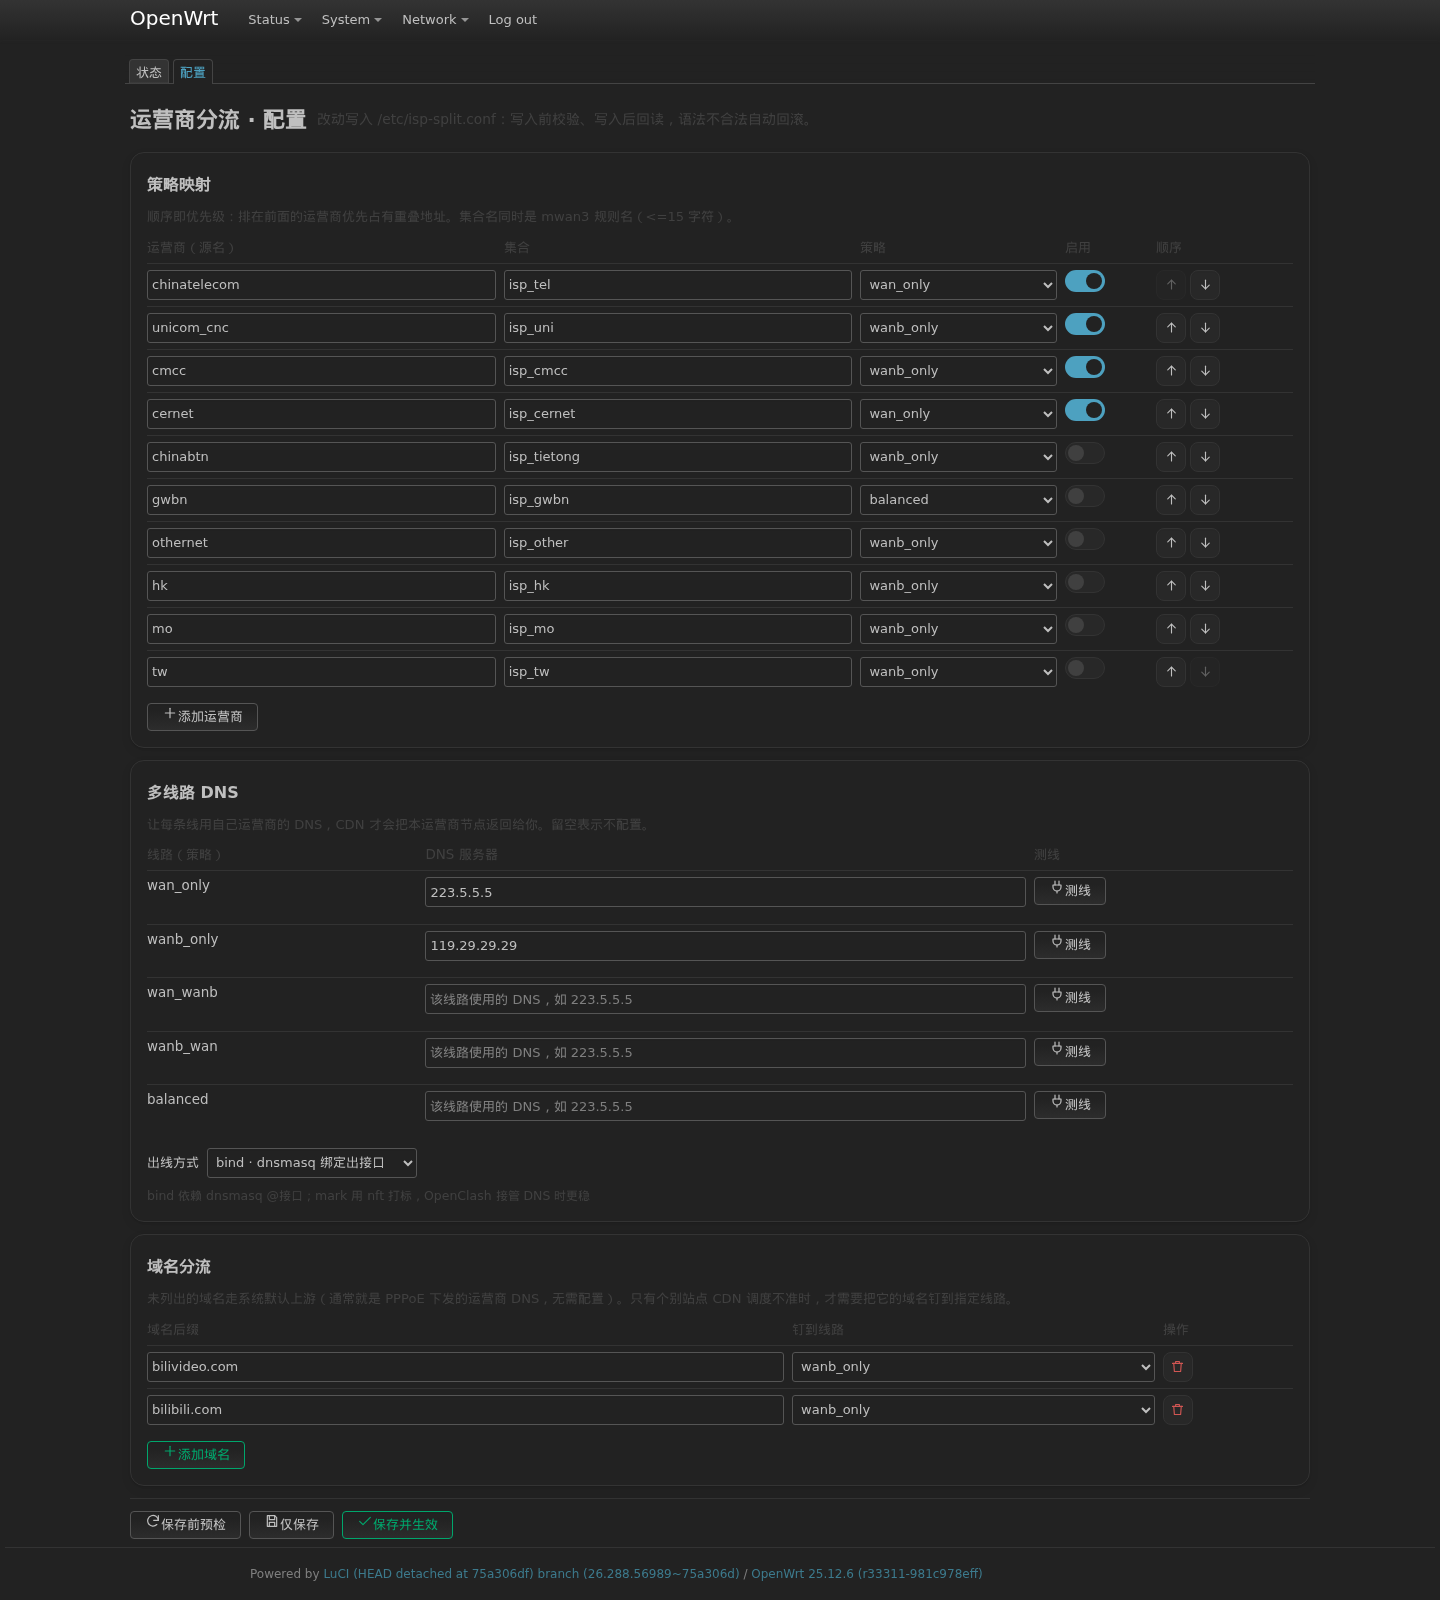
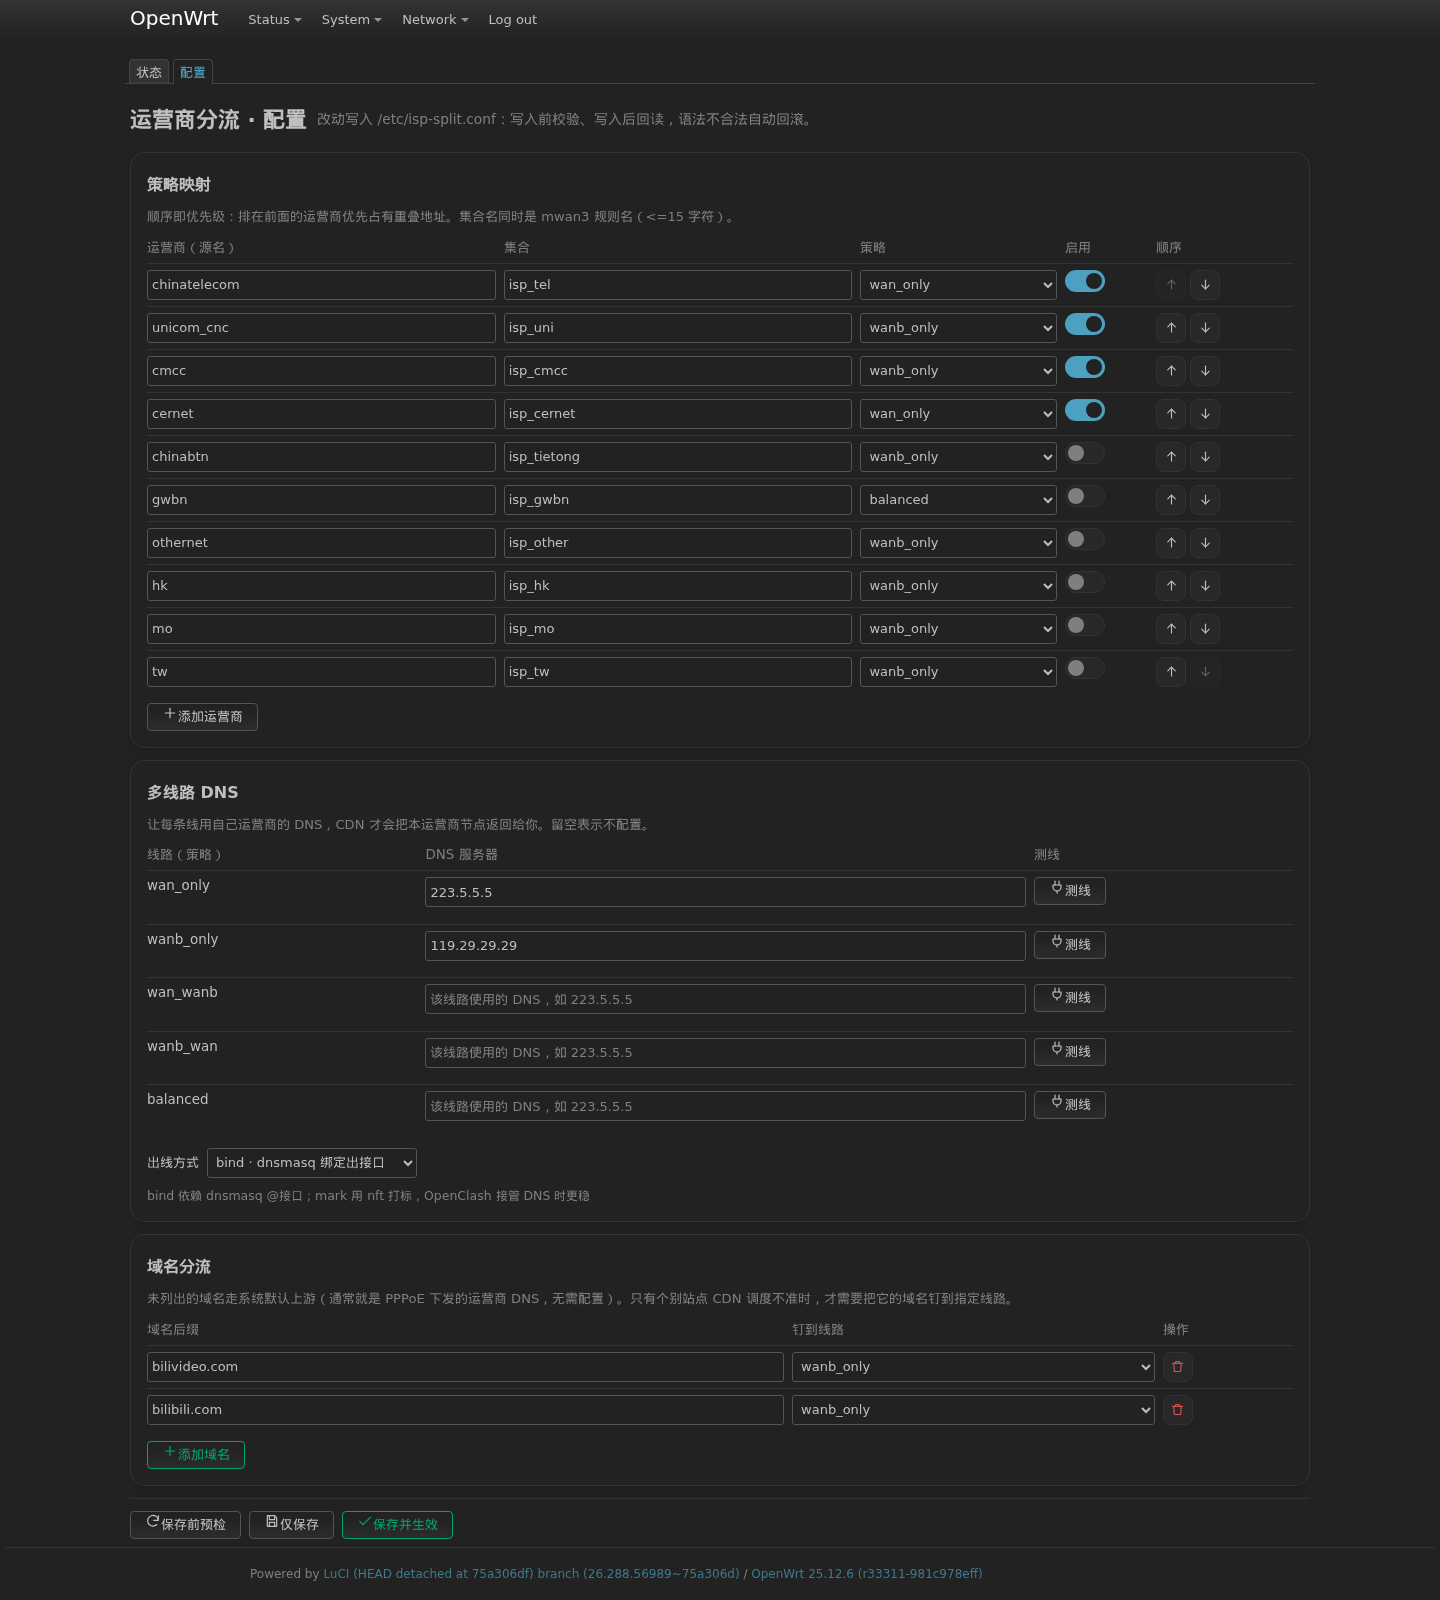
fix(luci): 次要文字改用主题 --text-color-medium，深色下不再几乎不可见 (BUG-19)
截图复核时顺手量的对比度：--isp-muted 之前取的是 --text-color-low，那是主题里
给边框/禁用态用的色阶（浅色 #bfbfbf、深色 #404040），当正文用就翻车：

  浅色：描述文字 #bfbfbf on #ffffff → 1.9:1
  深色：描述文字 #404040 on #222222 → 1.5:1（几乎看不见）

改用主题的 --text-color-medium（#808080）：

  浅色：3.95:1   深色：3.97:1（深色提升 2.6 倍）

影响面：所有次级文字（区块说明、卡片副标题、数据时间、源健康度表、空态提示、
出线方式说明），主文字仍走 --text-color-high 不变。仍是主题变量，没有写死颜色。

验证：真页面断言 51/51 复跑全过（含深浅色、三档宽度）；截图重截 7 张。

diff --git a/feed/op-packages/luci-app-isp-split/htdocs/luci-static/resources/isp-split/isp-split.css b/feed/op-packages/luci-app-isp-split/htdocs/luci-static/resources/isp-split/isp-split.css
@@ -14,7 +14,9 @@
 	--isp-card-bg-2: var(--background-color-medium, rgba(128, 128, 128, 0.12));
 	--isp-border: var(--border-color-low, rgba(128, 128, 128, 0.28));
 	--isp-border-strong: var(--border-color-medium, rgba(128, 128, 128, 0.45));
-	--isp-muted: var(--text-color-low, rgba(128, 128, 128, 0.95));
+	/* 次要文字用 --text-color-medium：原来的 --text-color-low 是主题里的边框/禁用色
+	   （浅色 #bfbfbf、深色 #404040），深色主题下正文对比度只有 1.5:1，几乎看不见。 */
+	--isp-muted: var(--text-color-medium, rgba(128, 128, 128, 0.95));
 	--isp-text: var(--text-color-high, inherit);
 	--isp-primary: var(--primary-color-high, currentColor);
 	--isp-ok: var(--success-color-high, currentColor);

diff --git a/luci-app-isp-split/htdocs/luci-static/resources/isp-split/isp-split.css b/luci-app-isp-split/htdocs/luci-static/resources/isp-split/isp-split.css
@@ -14,7 +14,9 @@
 	--isp-card-bg-2: var(--background-color-medium, rgba(128, 128, 128, 0.12));
 	--isp-border: var(--border-color-low, rgba(128, 128, 128, 0.28));
 	--isp-border-strong: var(--border-color-medium, rgba(128, 128, 128, 0.45));
-	--isp-muted: var(--text-color-low, rgba(128, 128, 128, 0.95));
+	/* 次要文字用 --text-color-medium：原来的 --text-color-low 是主题里的边框/禁用色
+	   （浅色 #bfbfbf、深色 #404040），深色主题下正文对比度只有 1.5:1，几乎看不见。 */
+	--isp-muted: var(--text-color-medium, rgba(128, 128, 128, 0.95));
 	--isp-text: var(--text-color-high, inherit);
 	--isp-primary: var(--primary-color-high, currentColor);
 	--isp-ok: var(--success-color-high, currentColor);
